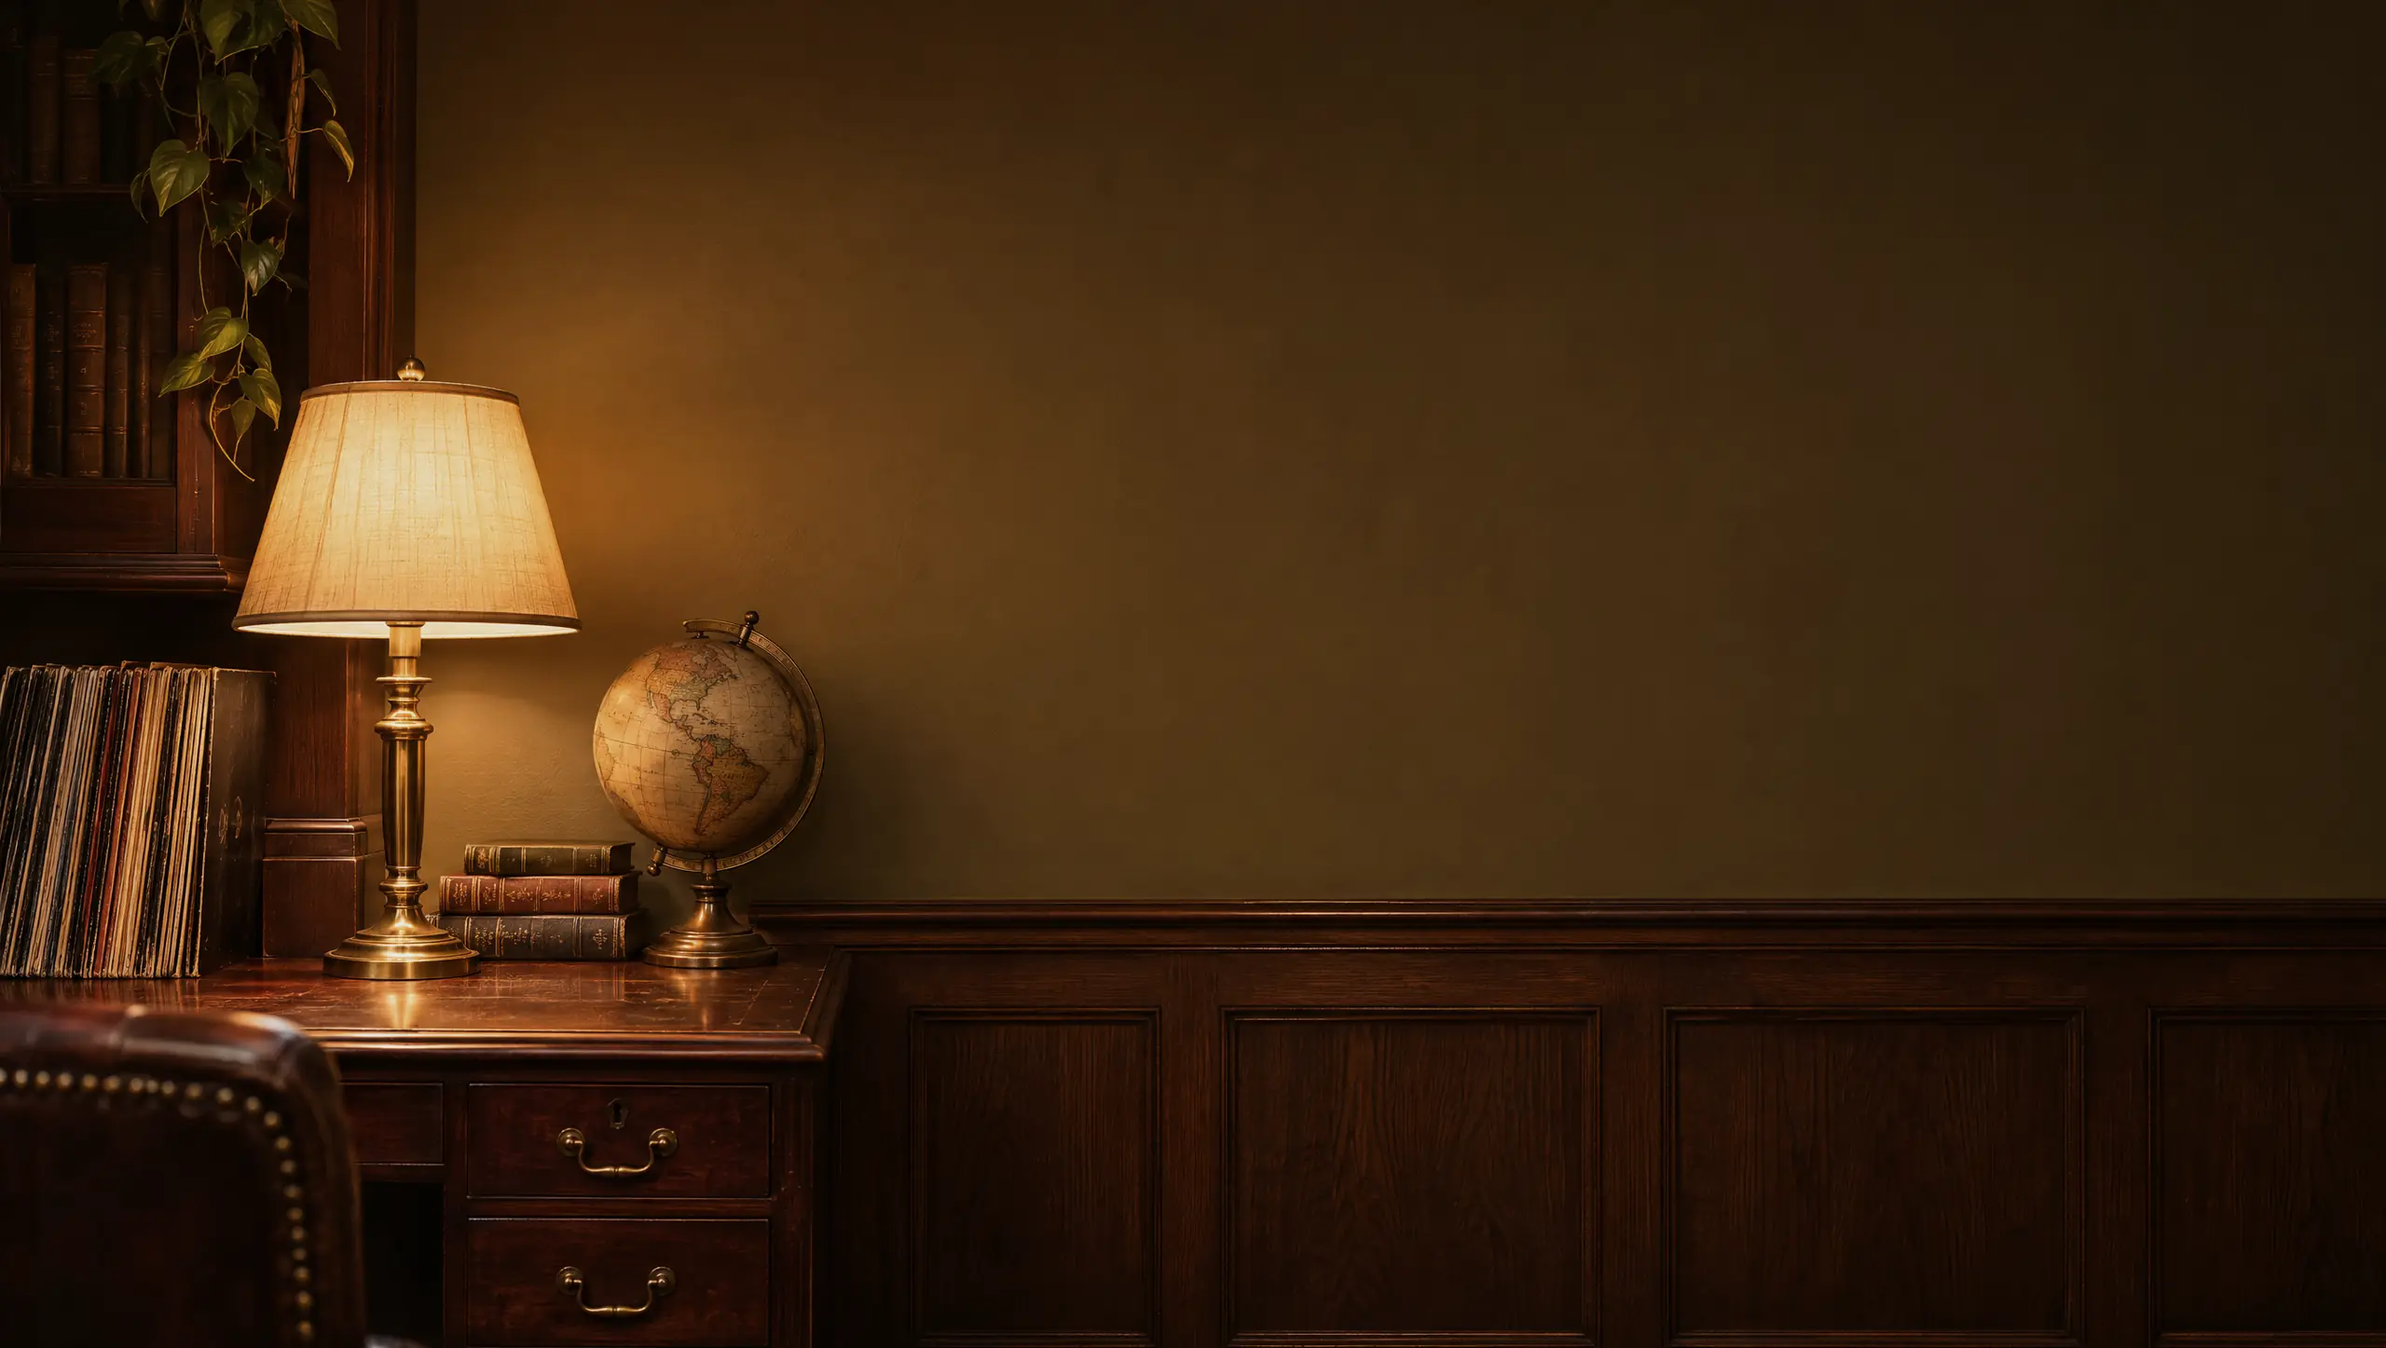
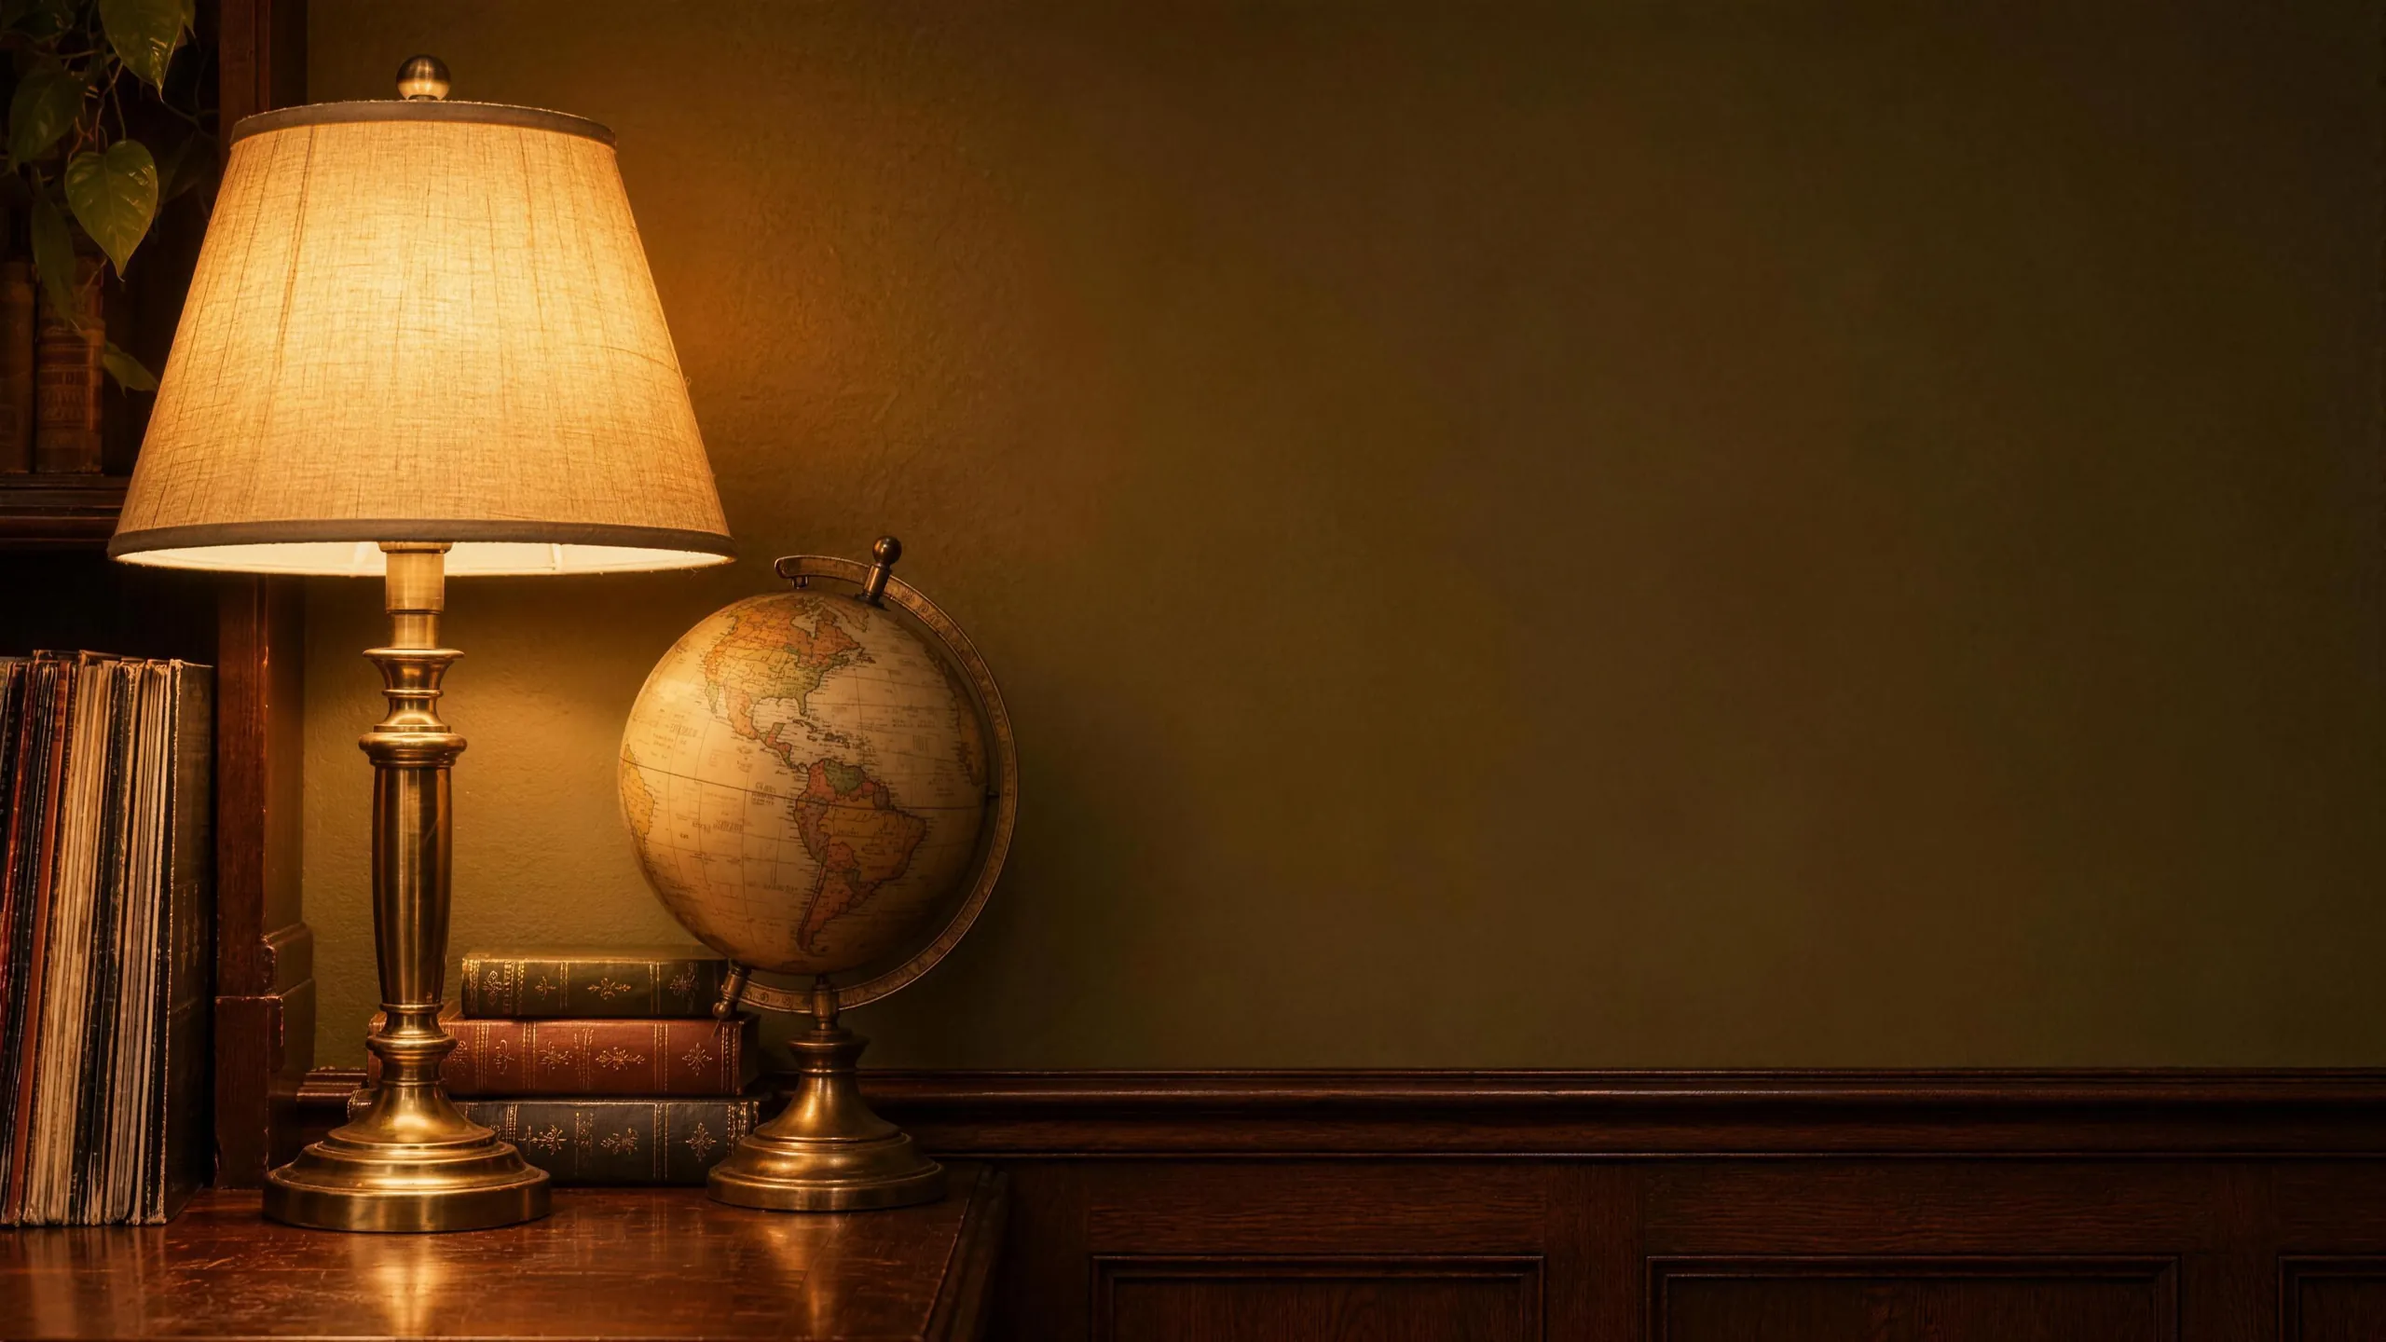
Новые комнаты вплотную к стене (компьютер), честный масштаб A3/A2, подвал: Telegram-канал и менеджер, без личного телефона

diff --git a/index.html b/index.html
@@ -5,7 +5,7 @@
 <meta name="viewport" content="width=device-width, initial-scale=1, viewport-fit=cover">
 <title>PROSWET — световая рамка с постером любимого фильма</title>
 <meta name="description" content="Световая рамка с постером вашего фильма. Приходит собранной — повесил и включил. Доставка бесплатно.">
-<link rel="preload" as="image" href="img/lib/library.webp?v=b57055c53a" media="(min-width: 901px)" fetchpriority="high">
+<link rel="preload" as="image" href="img/lib/library.webp?v=88fb4be6db" media="(min-width: 901px)" fetchpriority="high">
 <link rel="preload" as="image" href="img/lib/library-m.webp?v=ff8196ca54" media="(max-width: 900px)" fetchpriority="high">
 <link href="fonts/fonts.css?v=1811" rel="stylesheet">
 <link rel="icon" href="favicon.png?v=6" type="image/png" sizes="192x192">
@@ -156,7 +156,7 @@ header .wrap { height: 100%; display: grid; grid-template-columns: 1fr auto 1fr;
 
 @media (max-width: 900px) {
   .hero { height: auto; max-height: none; min-height: 0; }
-  .room { position: relative; inset: auto; height: min(118vw, 74svh); -webkit-mask: none; mask: none; }
+  .room { position: relative; inset: auto; height: min(118vw, 74svh); -webkit-mask: none; mask: none; overflow: hidden; }
   .hero::before { background: linear-gradient(0deg, rgba(13,11,9,1) 0%, rgba(13,11,9,0) 30%); height: min(118vw, 74svh); }
   .hero > .wrap { height: auto; }
   .hero-copy { padding: 0 0 48px; margin-top: -48px; max-width: none; width: 100%; min-width: 0; }
@@ -753,7 +753,7 @@ html.bag-open, html.bag-open body { overflow: hidden; }
     <div><a class="wordmark" href="#top" aria-label="PROSWET">PROSWET</a><p class="tag">Световые рамки с постерами любимых фильмов.</p></div>
     <div><h4>Магазин</h4><a href="#top">Рамка Proswet</a><a href="#posters">Коллекция</a><a href="#gifts">Наборы</a></div>
     <div><h4>Покупателям</h4><a href="oferta.html#dostavka">Доставка и оплата</a><a href="oferta.html#vozvrat">Возврат и гарантия</a><a href="#help">Вопросы</a><a href="#" id="myOrdersLink">Мои заказы</a></div>
-    <div><h4>Proswet</h4><a href="https://t.me/proswet_store" target="_blank" rel="noopener">Telegram</a><a href="mailto:proswet.store@yandex.ru">proswet.store@yandex.ru</a><a href="tel:+79936393350">+7 993 639-33-50</a></div>
+    <div><h4>Proswet</h4><a href="https://t.me/proswetstore" target="_blank" rel="noopener">Telegram-канал</a><a href="https://t.me/proswet_store" target="_blank" rel="noopener">Написать менеджеру</a><a href="mailto:proswet.store@yandex.ru">proswet.store@yandex.ru</a></div>
   </div>
   <div class="legal"><span>© 2026 Proswet · ИП Мозговой Дмитрий Алексеевич · ИНН 301609529383 · ОГРНИП 325300000023116</span><span><a href="oferta.html">Публичная оферта</a> · <a href="privacy.html">Политика конфиденциальности</a></span></div>
 </div></footer>
@@ -840,7 +840,7 @@ const openOrdersOnLoad = location.hash === "#orders";
 if (location.hash) history.replaceState(null, "", location.pathname + location.search);
 scrollTo(0, 0); addEventListener("pageshow", () => scrollTo(0, 0));
 document.addEventListener("click", e => { const a = e.target.closest('a[href^="#"]'); if (!a) return; const id = a.getAttribute("href").slice(1), t = id ? document.getElementById(id) : null; if (!id || !t) return; e.preventDefault(); t.scrollIntoView({ behavior: "smooth" }); });
-const AV = "f7f7c24715";
+const AV = "93d8946f62";
 const P = h => { h = h.split("?")[0]; return "img/w/" + (h.includes(".") ? h.split("/").pop().replace(/\.\w+$/, "") : h.split("/").pop()) + ".webp?v=" + AV; };
 const T = h => P(h).replace("img/w/", "img/t/");
 // весь ассортимент подгружаем фоном после загрузки страницы: сначала миниатюры, потом большие постеры
@@ -933,18 +933,19 @@ let cfg = { poster: byTitle("Убить Билла"), on: true };
   const hit = want ? films.findIndex(f => slug(f.o) === want || slug(f.t) === want) : -1; if (hit >= 0) cfg.poster = hit; }
 // строка корзины для одной рамки: в заголовке — фильм, ниже формат и артикул
 const frameItem = (f, k) => { const z = SIZES[k]; return { sku: z.sku, size: k, films: [f.t], posters: [f.id], name: f.t, sub: "Световая рамка " + z.label + " · арт. " + z.label + "-" + f.id, price: z.price, img: T(f.img) }; };
-const SIZES = { a3: { label: "A3", dim: "30 × 42 см", spec: "A3, 297 × 420 мм", price: 6000, sku: "one", name: "Proswet A3", k: .62 }, a2: { label: "A2", dim: "42 × 59 см · скоро", spec: "A2, 420 × 594 мм — скоро в наличии", price: 0, soon: true, sku: "one", name: "Proswet A3", k: .78 } };
+const SIZES = { a3: { label: "A3", dim: "30 × 42 см", spec: "A3, 297 × 420 мм", price: 6000, sku: "one", name: "Proswet A3", k: .62, cm: 43.2 }, a2: { label: "A2", dim: "42 × 59 см · скоро", spec: "A2, 420 × 594 мм — скоро в наличии", price: 0, soon: true, sku: "one", name: "Proswet A3", k: .78, cm: 60.6 } };
 // A2 пока не продаём: переключатель работает, рамка на стене растёт, но купить нельзя. Всё, что кладёт в корзину, берёт доступный формат
 const OK_SIZE = () => SIZES[SIZE].soon ? "a3" : SIZE;
 let SIZE = "a3";
 
 // ---------- комнаты: где на стене висит рамка (доли картинки) ----------
 // fx, fy — центр рамки; desktop 2560×1448, телефон — кадр 4:5 вокруг стены (960×1200)
-const ROOMS = {
-  library: { fx: .60, fy: .40, mx: .62, my: .45 },
-  study:   { fx: .555, fy: .42, mx: .60, my: .42 },
-  living:  { fx: .55, fy: .45, mx: .62, my: .44 },
-  attic:   { fx: .565, fy: .46, mx: .62, my: .48 }
+// cm — доля высоты фото на 1 см у стены, по предметам в кадре. Комнаты для компьютера 25.11 сняты вплотную к стене; на телефоне прежние общие планы — иначе A2 не помещается в кадр
+const ROOMS = {   // mcm — то же для телефонных кадров (там прежние, более общие планы комнат)
+  library: { fx: .70, fy: .40, mx: .62, my: .45, cm: .0114, mcm: .0041 },   // банкирская лампа ≈ 40 см; на телефоне кресло ≈ 110 см
+  study:   { fx: .64, fy: .40, mx: .60, my: .42, cm: .0092, mcm: .0057 },   // глобус ≈ 30 см
+  living:  { fx: .68, fy: .42, mx: .62, my: .44, cm: .0100, mcm: .0053 },   // книги ≈ 22 см, ваза ≈ 25 см
+  attic:   { fx: .68, fy: .40, mx: .62, my: .48, cm: .0115, mcm: .0046 }    // керосиновая лампа ≈ 45 см
 };
 const ROOM_OF = {
   study: ["Клан Сопрано", "Острые козырьки", "Крёстный отец", "Джентльмены", "Карты, деньги, два ствола", "Чернобыль", "Твин Пикс", "Чёрное зеркало", "Брат", "Бэтмен"],
@@ -964,13 +965,19 @@ function placeWall(wall, box, imgW, imgH, fx, fy, k, posX = .6, posY = .5) {
 }
 // рамка стоит на месте всегда; комната сдвигается и масштабируется так, чтобы стена оказалась под рамкой
 const HERO_AT = { d: { x: .69, y: .44 }, m: { x: .56, y: .45 } };
+// Рамка в честном масштабе к мебели. Чтобы A3 не терялась, комната приближается (кадр крупнее), а не рамка раздувается.
+// Приближение считаем по A3 и не меняем при переключении на A2 — так A2 честно больше на стене.
+const HERO_A3 = { d: .36, m: .34 };   // какую долю высоты первого экрана занимает A3
 function layoutHero() {
-  const m = narrow(), box = $("room"), cw = box.clientWidth, ch = box.clientHeight, W = m ? 960 : 2560, H = m ? 1200 : 1448;
+  const m = narrow(), box = $("room"), cw = box.clientWidth, ch = box.clientHeight, W = m ? 960 : 2560, H = m ? 1200 : 1440;
   const at = HERO_AT[m ? "m" : "d"], tx = at.x * cw, ty = at.y * ch;
+  let wallH = 0;
   roomImgs.forEach(im => { const R = ROOMS[im.dataset.r]; if (!R) return; const fx = m ? R.mx : R.fx, fy = m ? R.my : R.fy;
-    const sc = Math.max(cw / W, ch / H, tx / (fx * W), (cw - tx) / ((1 - fx) * W), ty / (fy * H), (ch - ty) / ((1 - fy) * H));
+    const k = m ? R.mcm : R.cm, zoom = HERO_A3[m ? "m" : "d"] * ch / (SIZES.a3.cm * k * H);
+    const sc = Math.max(zoom, cw / W, ch / H, tx / (fx * W), (cw - tx) / ((1 - fx) * W), ty / (fy * H), (ch - ty) / ((1 - fy) * H));
+    if (im.dataset.r === ROOM) wallH = SIZES[SIZE].cm * k * H * sc;
     Object.assign(im.style, { width: W * sc + "px", height: H * sc + "px", left: tx - fx * W * sc + "px", top: ty - fy * H * sc + "px" }); });
-  const w = $("heroWall"); w.style.left = tx + "px"; w.style.top = ty + "px"; w.style.height = SIZES[SIZE].k * ch * (m ? .76 : 1) + "px";
+  const w = $("heroWall"); w.style.left = tx + "px"; w.style.top = ty + "px"; w.style.height = (wallH || SIZES[SIZE].k * ch) + "px";
 }
 function setRoom(r) {
   if (r === ROOM && loadRoom(r).classList.contains("on")) return;
@@ -1184,7 +1191,7 @@ function layoutFinale() { const img = $("finImg"), box = $("finale"), w = $("fin
   const W = 2560, H = 1429, fx = .68, fy = .34, cw = box.clientWidth, ch = box.clientHeight, tx = .69 * cw, ty = .47 * ch;
   const sc = Math.max(cw / W, ch / H, tx / (fx * W), (cw - tx) / ((1 - fx) * W), ty / (fy * H), (ch - ty) / ((1 - fy) * H));
   Object.assign(img.style, { width: W * sc + "px", height: H * sc + "px", left: tx - fx * W * sc + "px", top: ty - fy * H * sc + "px", maxWidth: "none", objectFit: "fill" });
-  w.style.left = tx + "px"; w.style.top = ty + "px"; w.style.height = SIZES[SIZE].k * $("room").clientHeight + "px"; }
+  w.style.left = tx + "px"; w.style.top = ty + "px"; w.style.height = $("heroWall").style.height; }
 
 // ---------- шапка, появление, меню ----------
 { const hdr = $("hdr"); const on = () => { hdr.classList.toggle("solid", scrollY > 40); document.body.classList.toggle("past-hero", scrollY > innerHeight * .8); }; addEventListener("scroll", on, { passive: true }); on(); }

diff --git a/oferta.html b/oferta.html
@@ -79,7 +79,7 @@ footer{border-top:1px solid var(--hair);padding:28px 16px;text-align:center;colo
   <div><span>ОГРНИП</span><span>325300000023116</span></div>
   <div><span>Адрес для корреспонденции</span><span>414024, Астраханская обл., г. Астрахань, ул. Дубровинского, д. 58, кв. 75</span></div>
   <div><span>Почта</span><span><a href="mailto:proswet.store@yandex.ru">proswet.store@yandex.ru</a></span></div>
-  <div><span>Телефон</span><span><a href="tel:+79936393350">+7 993 639-33-50</a></span></div>
+  <div><span>Telegram</span><span><a href="https://t.me/proswet_store">@proswet_store</a></span></div>
   <div><span>Telegram</span><span><a href="https://t.me/proswet_store" target="_blank" rel="noopener">@proswet_store</a></span></div>
   <div><span>Сайт</span><span>proswetstore.ru</span></div>
 </div>

diff --git a/privacy.html b/privacy.html
@@ -70,7 +70,7 @@ footer{border-top:1px solid var(--hair);padding:28px 16px;text-align:center;colo
   <div><span>ОГРНИП</span><span>325300000023116</span></div>
   <div><span>Адрес для корреспонденции</span><span>414024, Астраханская обл., г. Астрахань, ул. Дубровинского, д. 58, кв. 75</span></div>
   <div><span>Почта</span><span><a href="mailto:proswet.store@yandex.ru">proswet.store@yandex.ru</a></span></div>
-  <div><span>Телефон</span><span><a href="tel:+79936393350">+7 993 639-33-50</a></span></div>
+  <div><span>Telegram</span><span><a href="https://t.me/proswet_store">@proswet_store</a></span></div>
   <div><span>Telegram</span><span><a href="https://t.me/proswet_store" target="_blank" rel="noopener">@proswet_store</a></span></div>
   <div><span>Сайт</span><span>proswetstore.ru</span></div>
 </div>
